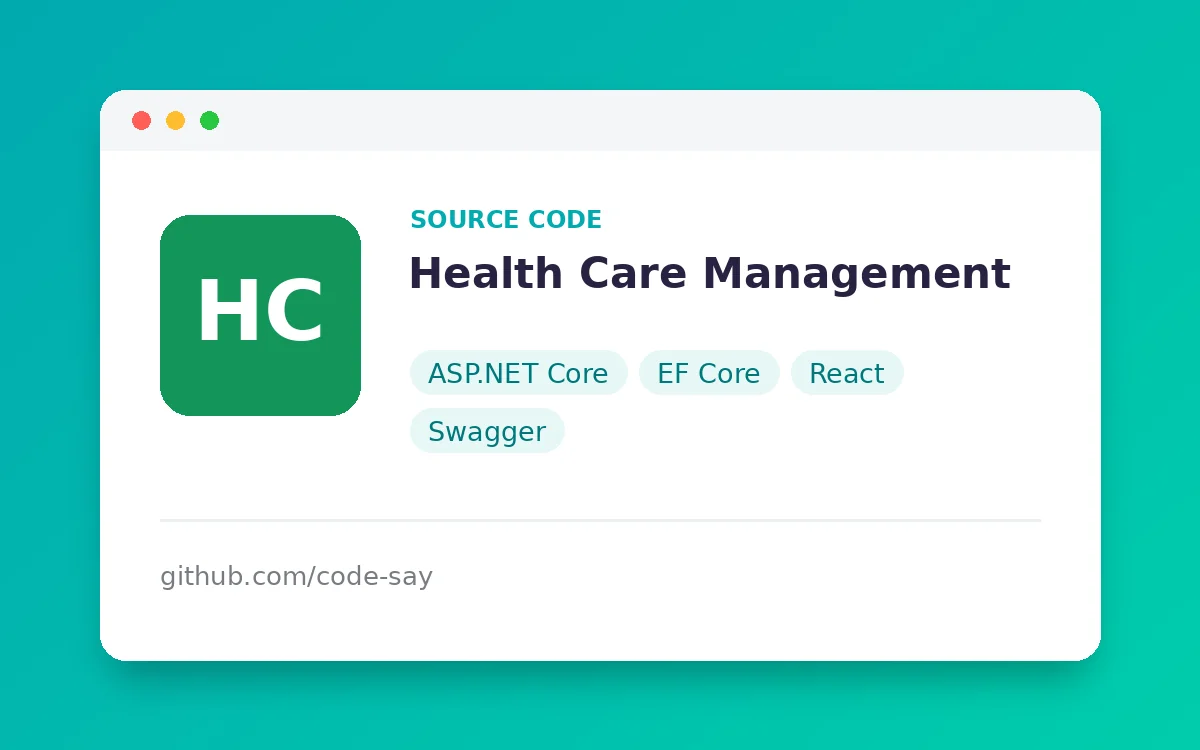
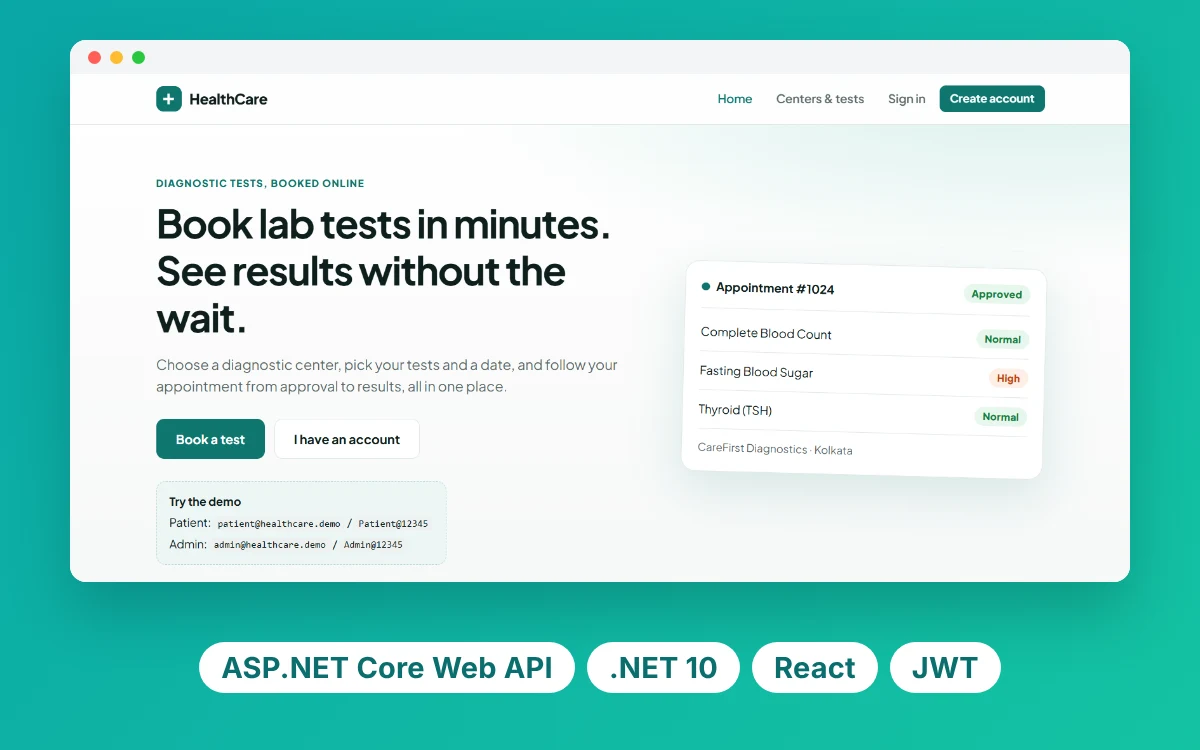
Projects: .NET projects first, real screenshot cards for Online Banking and Health Care
Claude-Session: https://claude.ai/code/session_01JHsigC6fZrscFKLuQDa9pY

diff --git a/index.html b/index.html
@@ -94,7 +94,57 @@
         <div class="project-wrapper">
           <h2 class="section-title text-white load-hidden">Projects</h2>
 
-          <!-- Each .row is a project -->
+          <!-- Each .row is a project. .NET projects first -->
+          <div class="row">
+            <div class="col-lg-4 col-sm-12">
+              <div class="project-wrapper__text load-hidden">
+                <h3 class="project-wrapper__text-title">Online Banking System</h3>
+                <div>
+                  <p class="mb-4">
+                    Internet banking with account opening, statements and PIN-protected fund transfers, plus an
+                    admin console. ASP.NET Core MVC (.NET 10), Razor views, EF Core and xUnit tests.
+                  </p>
+                </div>
+                <a target="_blank" rel="noopener" class="cta-btn cta-btn--hero" href="https://online-banking.onrender.com/">See Live</a>
+                <a target="_blank" rel="noopener" class="cta-btn text-color-main" href="https://github.com/code-say/Online-Banking">Source Code</a>
+              </div>
+            </div>
+            <div class="col-lg-8 col-sm-12">
+              <div class="project-wrapper__image load-hidden">
+                <a href="https://online-banking.onrender.com/" target="_blank" rel="noopener" aria-label="Open Online Banking System">
+                  <div data-tilt class="thumbnail rounded">
+                    <img class="img-fluid" src="/projects/online-banking.webp" alt="Online Banking System" width="1200" height="750" loading="lazy" />
+                  </div>
+                </a>
+              </div>
+            </div>
+          </div>
+
+          <div class="row">
+            <div class="col-lg-4 col-sm-12">
+              <div class="project-wrapper__text load-hidden">
+                <h3 class="project-wrapper__text-title">Health Care Management</h3>
+                <div>
+                  <p class="mb-4">
+                    Book diagnostic tests online: patients pick a center, tests and a date; admins approve
+                    appointments and record results. ASP.NET Core Web API (.NET 10), EF Core, JWT auth and React.
+                  </p>
+                </div>
+                <a target="_blank" rel="noopener" class="cta-btn cta-btn--hero" href="https://health-care-system-green.vercel.app/">See Live</a>
+                <a target="_blank" rel="noopener" class="cta-btn text-color-main" href="https://github.com/code-say/HealthCareSystem">Source Code</a>
+              </div>
+            </div>
+            <div class="col-lg-8 col-sm-12">
+              <div class="project-wrapper__image load-hidden">
+                <a href="https://health-care-system-green.vercel.app/" target="_blank" rel="noopener" aria-label="Open Health Care Management">
+                  <div data-tilt class="thumbnail rounded">
+                    <img class="img-fluid" src="/projects/health-care.webp" alt="Health Care Management" width="1200" height="750" loading="lazy" />
+                  </div>
+                </a>
+              </div>
+            </div>
+          </div>
+
           <div class="row">
             <div class="col-lg-4 col-sm-12">
               <div class="project-wrapper__text load-hidden">
@@ -120,7 +170,6 @@
               </div>
             </div>
           </div>
-          <!-- /END Project -->
 
           <div class="row">
             <div class="col-lg-4 col-sm-12">
@@ -167,56 +216,6 @@
                 <a href="https://music-app-zqiv-codesays-projects.vercel.app/" target="_blank" rel="noopener" aria-label="Open Waves Music Player">
                   <div data-tilt class="thumbnail rounded">
                     <img class="img-fluid" src="/projects/music-app.webp" alt="Waves Music Player" width="1200" height="750" loading="lazy" />
-                  </div>
-                </a>
-              </div>
-            </div>
-          </div>
-
-          <div class="row">
-            <div class="col-lg-4 col-sm-12">
-              <div class="project-wrapper__text load-hidden">
-                <h3 class="project-wrapper__text-title">Online Banking System</h3>
-                <div>
-                  <p class="mb-4">
-                    Internet banking with account opening, statements and PIN-protected fund transfers, plus an
-                    admin console. ASP.NET Core MVC (.NET 10), Razor views, EF Core and xUnit tests.
-                  </p>
-                </div>
-                <a target="_blank" rel="noopener" class="cta-btn cta-btn--hero" href="https://online-banking.onrender.com/">See Live</a>
-                <a target="_blank" rel="noopener" class="cta-btn text-color-main" href="https://github.com/code-say/Online-Banking">Source Code</a>
-              </div>
-            </div>
-            <div class="col-lg-8 col-sm-12">
-              <div class="project-wrapper__image load-hidden">
-                <a href="https://online-banking.onrender.com/" target="_blank" rel="noopener" aria-label="Open Online Banking System">
-                  <div data-tilt class="thumbnail rounded">
-                    <img class="img-fluid" src="/projects/online-banking.webp" alt="Online Banking System" width="1200" height="750" loading="lazy" />
-                  </div>
-                </a>
-              </div>
-            </div>
-          </div>
-
-          <div class="row">
-            <div class="col-lg-4 col-sm-12">
-              <div class="project-wrapper__text load-hidden">
-                <h3 class="project-wrapper__text-title">Health Care Management</h3>
-                <div>
-                  <p class="mb-4">
-                    Book diagnostic tests online: patients pick a center, tests and a date; admins approve
-                    appointments and record results. ASP.NET Core Web API (.NET 10), EF Core, JWT auth and React.
-                  </p>
-                </div>
-                <a target="_blank" rel="noopener" class="cta-btn cta-btn--hero" href="https://health-care-system-green.vercel.app/">See Live</a>
-                <a target="_blank" rel="noopener" class="cta-btn text-color-main" href="https://github.com/code-say/HealthCareSystem">Source Code</a>
-              </div>
-            </div>
-            <div class="col-lg-8 col-sm-12">
-              <div class="project-wrapper__image load-hidden">
-                <a href="https://health-care-system-green.vercel.app/" target="_blank" rel="noopener" aria-label="Open Health Care Management">
-                  <div data-tilt class="thumbnail rounded">
-                    <img class="img-fluid" src="/projects/health-care.webp" alt="Health Care Management" width="1200" height="750" loading="lazy" />
                   </div>
                 </a>
               </div>
